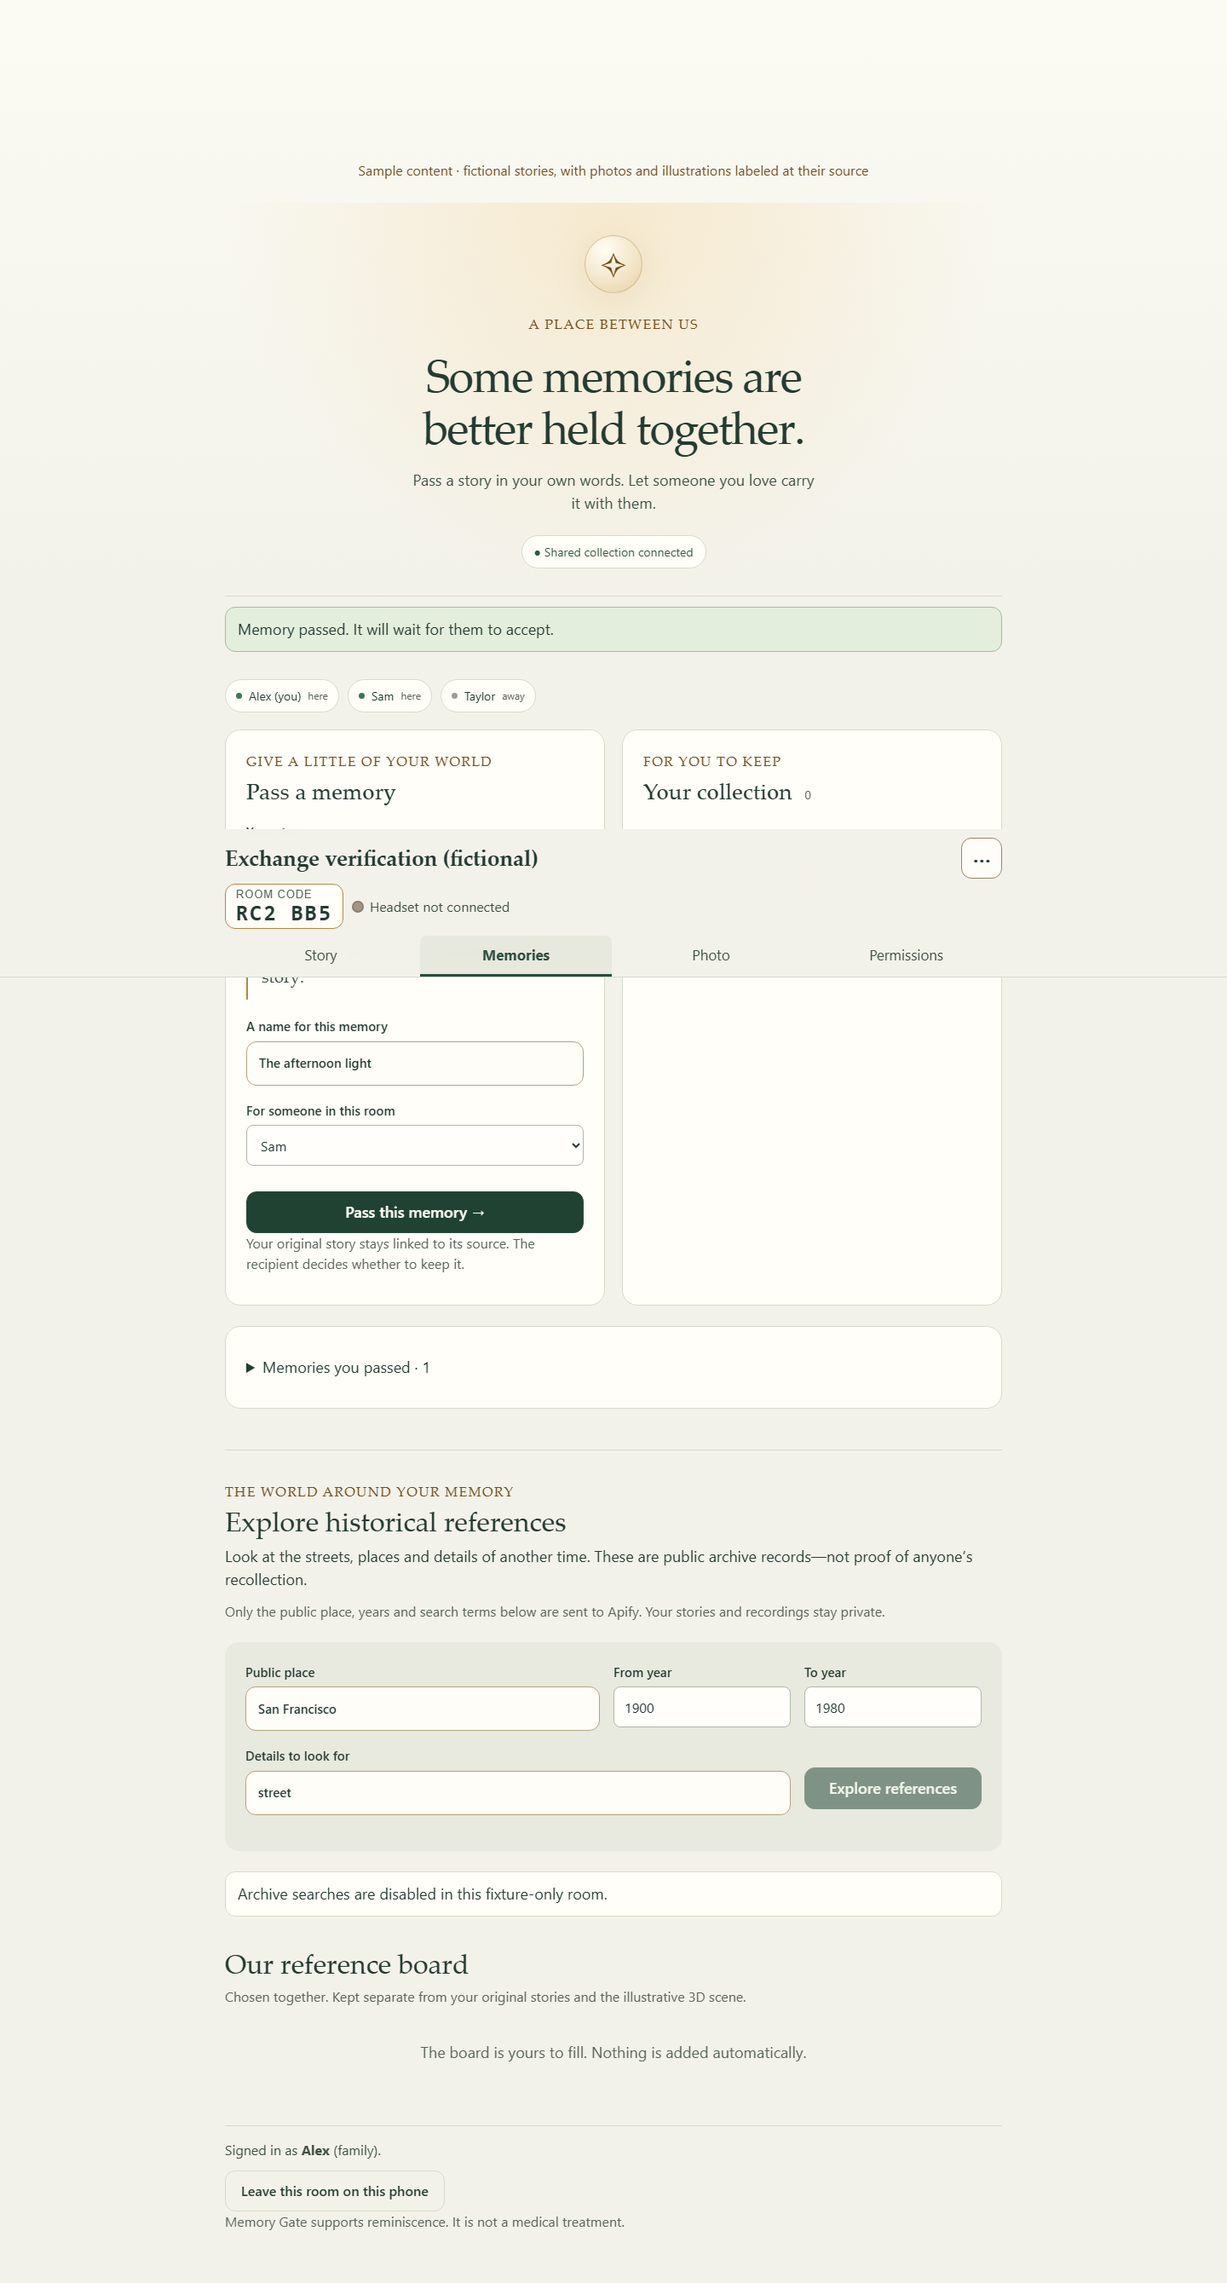
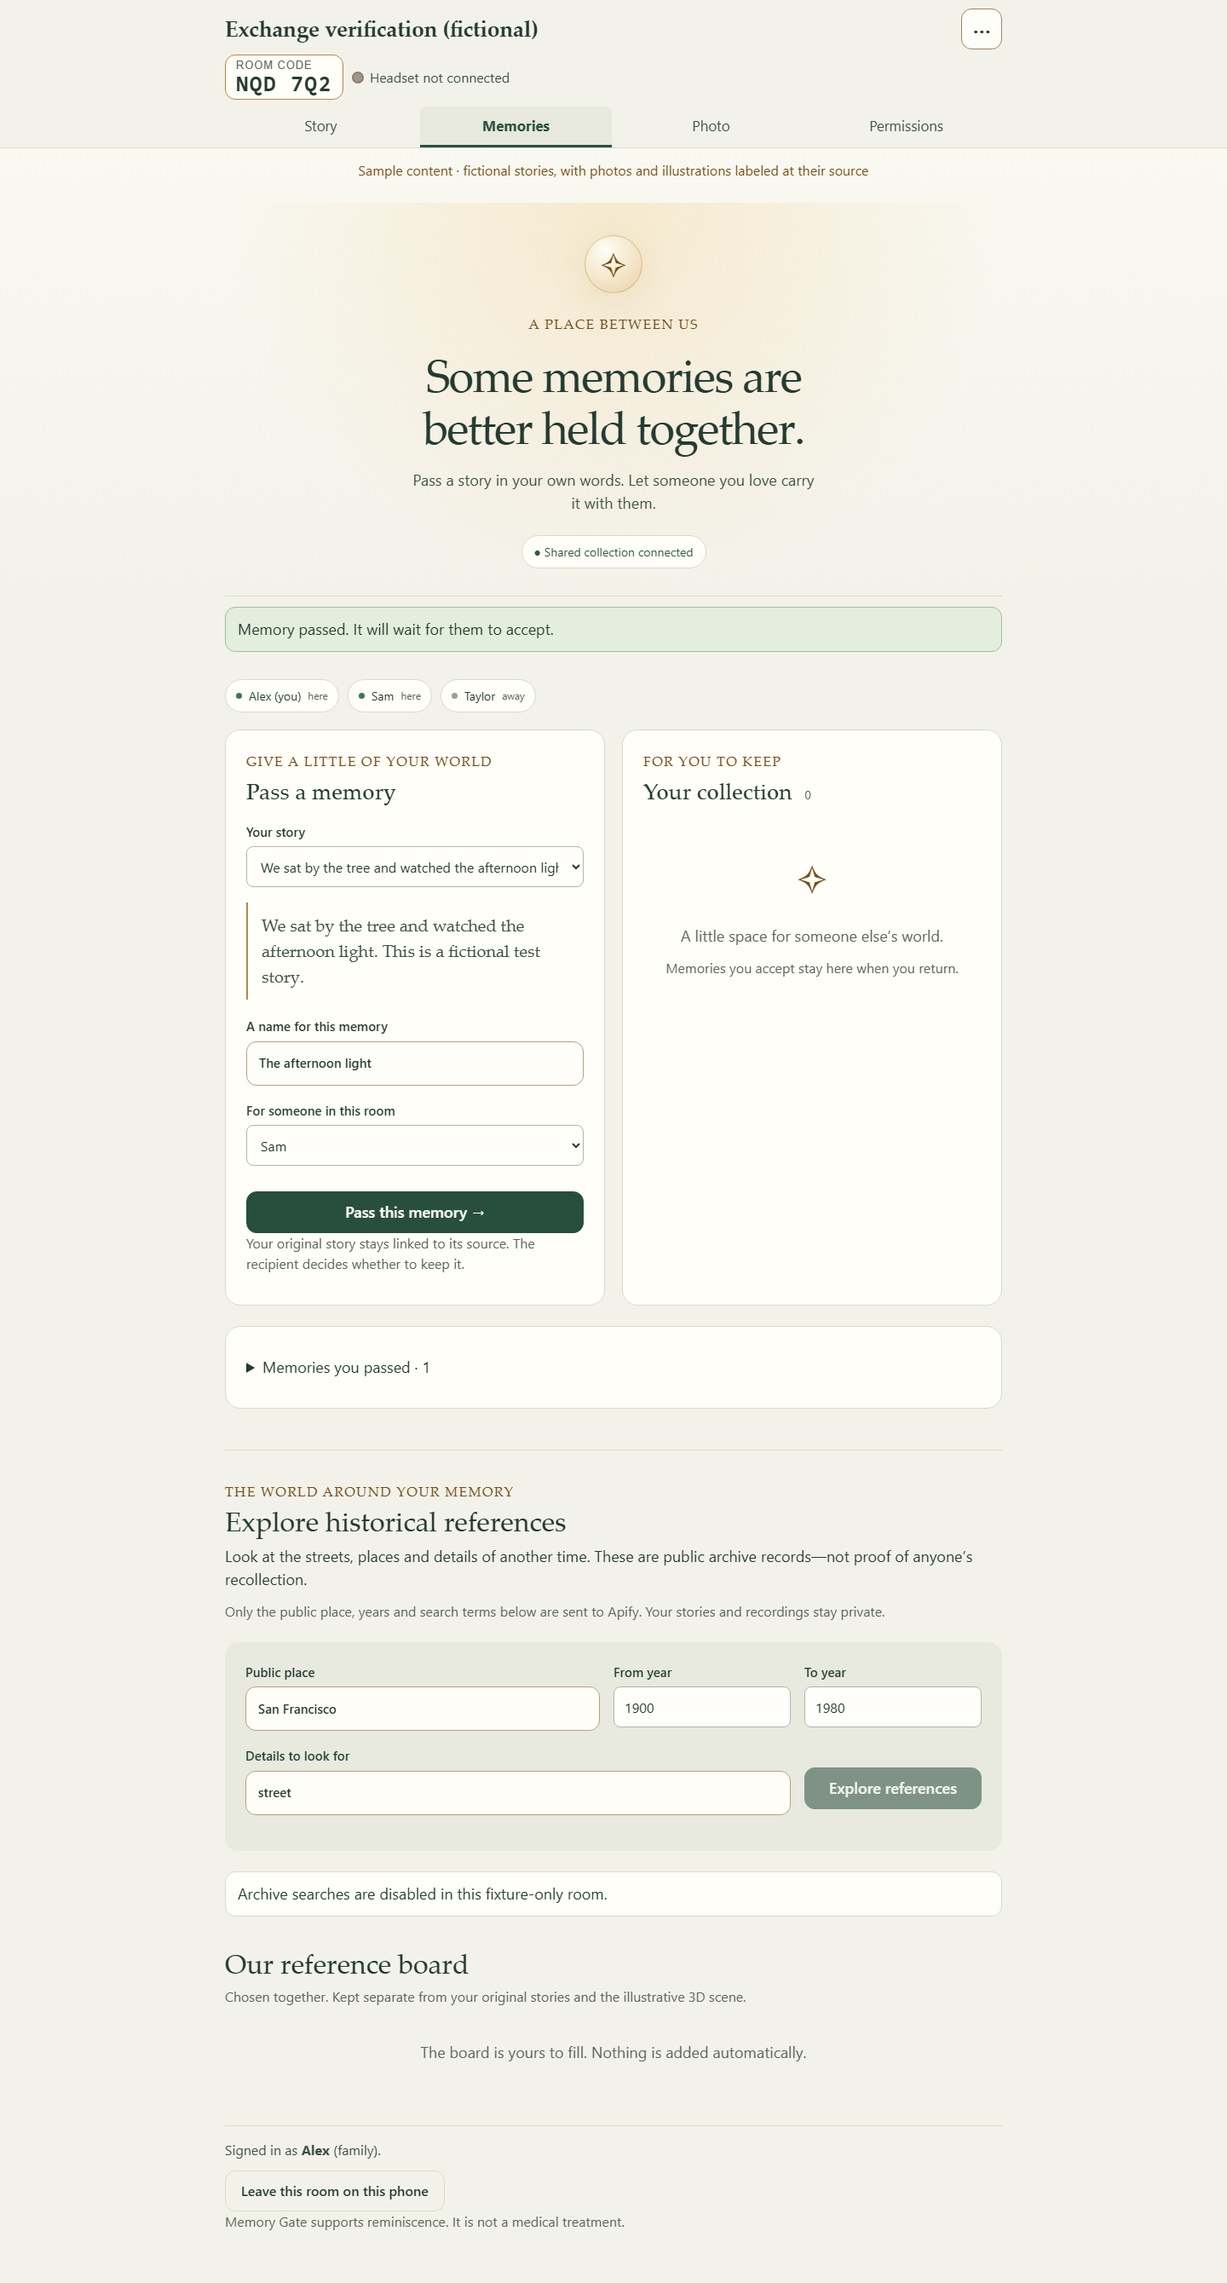
feat: persist shared references and reconcile room deletion

diff --git a/apps/phone/src/screens/Memories.tsx b/apps/phone/src/screens/Memories.tsx
@@ -24,7 +24,9 @@ export function Memories({ session, onStory }: { session: Session; onStory: () =
   const [sourceId, setSourceId] = useState(''); const [recipientId, setRecipientId] = useState(''); const [title, setTitle] = useState('');
   const [place, setPlace] = useState('San Francisco'); const [from, setFrom] = useState(1900); const [to, setTo] = useState(1980); const [terms, setTerms] = useState('street');
   const audio = useRef<HTMLAudioElement>(null);
+  const reveal = useRef<HTMLElement>(null);
   useEffect(() => { return () => { audio.current?.pause(); }; }, [opened?.capsuleId]);
+  useEffect(() => { if (opened) { reveal.current?.focus({ preventScroll: true }); reveal.current?.scrollIntoView({ block: 'center' }); } }, [opened?.capsuleId]);
   async function perform(key: string, payload: Record<string, unknown>, success: string) {
     setBusy(key); setError(''); setNotice('');
     try { await request(payload); setNotice(success); } catch (e) { setError(e instanceof Error ? e.message : 'Please try again.'); } finally { setBusy(''); }
@@ -36,7 +38,7 @@ export function Memories({ session, onStory }: { session: Session; onStory: () =
   const sent = snapshot?.capsules.filter(c => c.senderId === me) ?? [];
   const disabled = Boolean(busy) || status !== 'connected' || snapshot?.context.paused;
   const respond = (c: Capsule, next: string) => perform(c.id, { type: 'respond', capsuleId: c.id, revision: c.revision, status: next }, next === 'accepted' ? 'Saved to your collection. Open it whenever you are ready.' : next === 'revoked' ? 'This memory can no longer be opened through the exchange.' : 'Memory removed from your collection.');
-  return <section className="memory-exchange" data-testid="memory-exchange">
+  return <section className={`memory-exchange${incoming.length ? ' has-incoming' : ''}`} data-testid="memory-exchange">
     <header className="exchange-hero"><div className="memory-seal" aria-hidden="true">✧</div><p className="eyebrow">A place between us</p>
       <h2>Some memories are<br />better held together.</h2><p>Pass a story in your own words. Let someone you love carry it with them.</p>
       <span className={`exchange-status ${status}`} role="status">{status === 'connected' ? '● Shared collection connected' : status === 'connecting' ? 'Connecting to your shared collection…' : 'Shared collection reconnecting'}</span>
@@ -51,7 +53,7 @@ export function Memories({ session, onStory }: { session: Session; onStory: () =
         <span className="envelope-star" aria-hidden="true">✧</span><div><p className="small">From {c.senderName}, for you</p><h3>{c.title}</h3><p>You choose when to open it.</p></div>
         <div className="exchange-actions"><button className="btn btn-primary" disabled={disabled || !c.sourceAvailable} onClick={() => void respond(c, 'accepted')}>Accept memory</button><button className="btn btn-quiet" disabled={disabled} onClick={() => void respond(c, 'dismissed')}>No thanks</button></div>
       </article>)}</section>}
-      <div className="exchange-columns"><section className="exchange-panel"><p className="eyebrow">Give a little of your world</p><h3>Pass a memory</h3>
+      <div className={`exchange-columns${!snapshot.context.sources.length ? ' collection-first' : ''}`}><section className="exchange-panel"><p className="eyebrow">Give a little of your world</p><h3>Pass a memory</h3>
         {snapshot.context.sources.length ? <form onSubmit={e => { e.preventDefault(); void perform('pass', { type: 'pass', sourceId, recipientId, title, commandId: crypto.randomUUID() }, 'Memory passed. It will wait for them to accept.'); }}>
           <label className="exchange-field">Your story<select required value={sourceId} onChange={e => setSourceId(e.target.value)}><option value="">Choose your original words</option>{snapshot.context.sources.map(s => <option key={s.id} value={s.id}>{s.transcript.slice(0, 100)}</option>)}</select></label>
           {sourceId && <blockquote>{snapshot.context.sources.find(s => s.id === sourceId)?.transcript}</blockquote>}
@@ -61,11 +63,11 @@ export function Memories({ session, onStory }: { session: Session; onStory: () =
           <button className="btn btn-primary btn-wide" disabled={disabled || !sourceId || !recipientId || !title.trim()}>{busy === 'pass' ? 'Passing your memory…' : 'Pass this memory →'}</button>
           <p className="small muted">Your original story stays linked to its source. The recipient decides whether to keep it.</p>
         </form> : <div className="exchange-empty"><p>Start with a few words about a place you remember. Your completed stories will appear here.</p><button className="btn btn-primary" onClick={onStory}>Tell a story</button></div>}
-      </section><section className="exchange-panel"><p className="eyebrow">For you to keep</p><h3>Your collection <span className="memory-count">{collection.length}</span></h3>
+      </section><section className="exchange-panel collection-panel"><p className="eyebrow">For you to keep</p><h3>Your collection <span className="memory-count">{collection.length}</span></h3>
         {!collection.length && <div className="exchange-empty"><span aria-hidden="true">✧</span><p>A little space for someone else’s world.</p><p className="small muted">Memories you accept stay here when you return.</p></div>}
         {collection.map(c => <article className="collection-card" key={c.id} data-testid="saved-memory"><p className="small muted">{c.senderName} shared</p><h4>{c.title}</h4><div className="exchange-actions"><button className="btn btn-primary" disabled={disabled || !c.sourceAvailable} onClick={() => void perform(c.id, { type: 'open', capsuleId: c.id }, '')}>Open memory</button><button className="btn btn-quiet" disabled={disabled} onClick={() => void respond(c, 'dismissed')}>Remove</button></div>{!c.sourceAvailable && <p>Its contributor is no longer sharing this story.</p>}</article>)}
       </section></div>
-      {opened && <section className="opened-memory" data-testid="opened-memory" aria-label="Opened memory"><div className="exchange-actions"><p className="eyebrow">In {opened.source.speaker}’s own words</p><button className="btn btn-quiet" onClick={exchange.close}>Close memory</button></div><blockquote>{opened.source.transcript}</blockquote>
+      {opened && <section ref={reveal} tabIndex={-1} className="opened-memory" data-testid="opened-memory" aria-label="Opened memory"><div className="exchange-actions"><p className="eyebrow">In {opened.source.speaker}’s own words</p><button className="btn btn-quiet" onClick={exchange.close}>Close memory</button></div><blockquote>{opened.source.transcript}</blockquote>
         {opened.source.translation && <p><span className="small muted">Translation</span><br />{opened.source.translation}</p>}
         {opened.source.audioUrl ? <><p className="small">Original recording · {opened.source.speaker}</p><audio ref={audio} controls src={fileUrl(opened.source.audioUrl) ?? undefined} preload="none" /></> : <p className="small muted">{opened.source.source === 'typed' ? 'Original typed words. No recording was made.' : 'Original audio is not available with the current recording permission.'}</p>}
         {opened.source.objects.length > 0 && <p className="small">Connected to: {opened.source.objects.map(o => o.label).join(', ')}. <button className="btn btn-quiet" onClick={onStory}>Return to the shared place</button></p>}
@@ -87,7 +89,7 @@ export function Memories({ session, onStory }: { session: Session; onStory: () =
           <div className="atlas-grid">{results.references.map(r => <ReferenceCard key={r.id} reference={r}><button className="btn btn-primary btn-wide" disabled={disabled || snapshot.references.some(saved => saved.sourceUrl === r.sourceUrl)} onClick={() => void perform(r.id, { type: 'pin', referenceId: r.id }, 'Reference added to the shared board. The memory itself has not changed.')}>{snapshot.references.some(saved => saved.sourceUrl === r.sourceUrl) ? 'Added to your board' : 'Use as a shared reference'}</button></ReferenceCard>)}</div></>}
         <h3 className="shared-board-title">Our reference board</h3><p className="small muted">Chosen together. Kept separate from your original stories and the illustrative 3D scene.</p>
         {!snapshot.references.length && <p className="exchange-empty">The board is yours to fill. Nothing is added automatically.</p>}
-        <div className="atlas-grid">{snapshot.references.map(r => <ReferenceCard key={r.id} reference={r}><p className="small">Chosen by {r.contributor}</p>{r.addedBy === me && <button className="btn btn-quiet" disabled={disabled} onClick={() => void perform(r.id, { type: 'unpin', referenceId: r.id }, 'Reference removed from the board.')}>Remove reference</button>}</ReferenceCard>)}</div>
+        <div className="atlas-grid" data-testid="reference-board">{snapshot.references.map(r => <ReferenceCard key={r.id} reference={r}><p className="small">Chosen by {r.contributor}</p>{r.addedBy === me && <button className="btn btn-quiet" disabled={disabled} onClick={() => void perform(r.id, { type: 'unpin', referenceId: r.id }, 'Reference removed from the board.')}>Remove reference</button>}</ReferenceCard>)}</div>
       </section>
     </>}
   </section>;

diff --git a/tests/smoke/exchange.test.ts b/tests/smoke/exchange.test.ts
@@ -1,6 +1,6 @@
 import { expect, test } from 'vitest';
 import { api } from '../../convex/_generated/api';
-import { newT, setupRoom } from './helpers';
+import { newT, setupRoom, storeBlob } from './helpers';
 
 test('exchange excludes spectators and requires current sharing consent', async () => {
   const t = newT(); const r = await setupRoom(t);
@@ -17,13 +17,19 @@ test('exchange excludes spectators and requires current sharing consent', async 
 test('source lookup rejects cross-room IDs and never serves revoked recordings', async () => {
   const t = newT(); const r = await setupRoom(t);
   const member = await t.query(api.exchange.context, { code: r.code, token: r.owner });
+  const audioFileId = await storeBlob(t, 'synthetic audio', 'audio/wav');
   const sourceId = await t.run(ctx => ctx.db.insert('utterances', {
     roomId: member.roomId, memberId: member.memberId, speaker: 'Test contributor', transcript: 'A test memory.',
-    audioFileId: null, source: 'typed', language: 'en', translation: null, pointer: null, durationMs: 0, status: 'done', intent: null,
+    audioFileId, source: 'fixture', language: 'en', translation: null, pointer: null, durationMs: 0, status: 'done', intent: null,
     reply: null, sayBack: null, aiMode: null, aiMs: null, dropped: [], commandId: 'test-exchange-source', createdAt: Date.now(),
   }));
   const source = await t.query(api.exchange.source, { code: r.code, token: r.teller, sourceId });
   expect(source.audioUrl).toBeNull(); expect(source.transcript).toBe('A test memory.');
+  const recordingConsent = await t.mutation(api.consents.give, { code: r.code, token: r.owner, scopes: ['voice_recording'] });
+  expect((await t.query(api.exchange.source, { code: r.code, token: r.teller, sourceId })).audioUrl).toBeTruthy();
+  await t.mutation(api.consents.revoke, { code: r.code, token: r.owner, consentId: recordingConsent });
+  expect((await t.query(api.exchange.source, { code: r.code, token: r.teller, sourceId })).audioUrl).toBeNull();
+  expect((await t.query(api.exchange.context, { code: r.code, token: r.teller })).recordingAllowed).toBe(false);
   const other = await setupRoom(t, { sample: false, library: false });
   await expect(t.query(api.exchange.source, { code: other.code, token: other.owner, sourceId })).rejects.toThrow();
   await t.run(ctx => ctx.db.patch(member.memberId, { revokedAt: Date.now() }));

diff --git a/apps/phone/src/exchange.css b/apps/phone/src/exchange.css
@@ -1,4 +1,7 @@
 .memory-exchange { padding-top: 12px; }
+.has-incoming .exchange-hero { padding: 20px 8px; }
+.has-incoming .memory-seal, .has-incoming .exchange-hero > p:not(.eyebrow) { display: none; }
+.has-incoming .exchange-hero h2 { font-size: 1.8rem; margin: 12px 0; }
 .exchange-hero { text-align: center; padding: 38px 20px 32px; background: radial-gradient(ellipse at 50% 0, #f4d9a774, transparent 70%); border-bottom: 1px solid var(--line); }
 .exchange-hero h2 { font-size: clamp(2rem, 5vw, 3.4rem); line-height: 1.12; font-weight: 400; letter-spacing: -.035em; margin: 18px 0; }
 .exchange-hero > p:not(.eyebrow) { max-width: 480px; margin: 0 auto 24px; color: var(--ink-2); }
@@ -56,3 +59,4 @@
 @keyframes memory-arrive { from { opacity: 0; transform: translateY(10px); } to { opacity: 1; transform: none; } }
 @media (max-width: 650px) { .exchange-columns, .atlas-grid { grid-template-columns: 1fr; } .exchange-panel, .opened-memory { padding: 20px; } .atlas-search { grid-template-columns: 1fr 1fr; padding: 18px; } .atlas-search > label:first-child, .atlas-search > label:nth-child(4), .atlas-search > button { grid-column: 1 / -1; } .memory-envelope { gap: 12px; padding: 20px; } .envelope-star { font-size: 36px; } .exchange-hero { padding: 24px 8px; } .tabs { flex-wrap: wrap; } }
 @media (prefers-reduced-motion: reduce) { .memory-envelope, .opened-memory { animation: none; } }
+@media (max-width: 650px) { .collection-first .collection-panel { order: -1; } }

diff --git a/convex/exchange.ts b/convex/exchange.ts
@@ -2,6 +2,22 @@ import { ConvexError, v } from 'convex/values';
 import { query } from './_generated/server';
 import { activeScopes, requireMember, requireScope } from './lib/auth';
 
+// A bounded reconciliation query lets the gateway erase deleted rooms after an
+// outage too. It reveals only absence, and requires the existing server secret.
+export const deletedRooms = query({
+  args: { secret: v.string(), roomIds: v.array(v.string()) },
+  handler: async (ctx, { secret, roomIds }) => {
+    if (!process.env.WORKER_SECRET || secret !== process.env.WORKER_SECRET) throw new ConvexError({ code: 'FORBIDDEN', message: 'Server authorization required.' });
+    if (roomIds.length > 100) throw new ConvexError({ code: 'LIMIT', message: 'At most 100 rooms per reconciliation.' });
+    const deleted: string[] = [];
+    for (const roomId of roomIds) {
+      const id = ctx.db.normalizeId('rooms', roomId);
+      if (!id || !await ctx.db.get(id)) deleted.push(roomId);
+    }
+    return deleted;
+  },
+});
+
 // Gateway authorization is checked again for every action and every pushed snapshot.
 export const context = query({
   args: { code: v.string(), token: v.string() },

diff --git a/services/exchange/bindings/types/reducers.ts b/services/exchange/bindings/types/reducers.ts
@@ -8,11 +8,13 @@ import { type Infer as __Infer } from "spacetimedb";
 // Import all reducer arg schemas
 import PassMemoryReducer from "../pass_memory_reducer";
 import PinReferenceReducer from "../pin_reference_reducer";
+import PurgeRoomReducer from "../purge_room_reducer";
 import RespondMemoryReducer from "../respond_memory_reducer";
 import UnpinReferenceReducer from "../unpin_reference_reducer";
 
 export type PassMemoryParams = __Infer<typeof PassMemoryReducer>;
 export type PinReferenceParams = __Infer<typeof PinReferenceReducer>;
+export type PurgeRoomParams = __Infer<typeof PurgeRoomReducer>;
 export type RespondMemoryParams = __Infer<typeof RespondMemoryReducer>;
 export type UnpinReferenceParams = __Infer<typeof UnpinReferenceReducer>;
 

diff --git a/services/exchange/bindings/index.ts b/services/exchange/bindings/index.ts
@@ -36,6 +36,7 @@ import {
 // Import all reducer arg schemas
 import PassMemoryReducer from "./pass_memory_reducer";
 import PinReferenceReducer from "./pin_reference_reducer";
+import PurgeRoomReducer from "./purge_room_reducer";
 import RespondMemoryReducer from "./respond_memory_reducer";
 import UnpinReferenceReducer from "./unpin_reference_reducer";
 
@@ -95,6 +96,7 @@ const tablesSchema = __schema({
 const reducersSchema = __reducers(
   __reducerSchema("pass_memory", PassMemoryReducer),
   __reducerSchema("pin_reference", PinReferenceReducer),
+  __reducerSchema("purge_room", PurgeRoomReducer),
   __reducerSchema("respond_memory", RespondMemoryReducer),
   __reducerSchema("unpin_reference", UnpinReferenceReducer),
 );

diff --git a/spacetimedb/src/index.ts b/spacetimedb/src/index.ts
@@ -63,3 +63,8 @@ export const unpinReference = db.reducer({ id: t.string(), roomId: t.string(), m
   if (r.roomId !== a.roomId || r.addedBy !== a.memberId) throw new SenderError('Only the contributor can remove this reference.');
   ctx.db.reference.id.delete(a.id);
 });
+export const purgeRoom = db.reducer({ roomId: t.string() }, (ctx, { roomId }) => {
+  requireOperator(ctx);
+  for (const row of [...ctx.db.capsule.byRoom.filter(roomId)]) ctx.db.capsule.id.delete(row.id);
+  for (const row of [...ctx.db.reference.byRoom.filter(roomId)]) ctx.db.reference.id.delete(row.id);
+});

diff --git a/services/exchange/bindings/purge_room_reducer.ts b/services/exchange/bindings/purge_room_reducer.ts
@@ -1,0 +1,15 @@
+// THIS FILE IS AUTOMATICALLY GENERATED BY SPACETIMEDB. EDITS TO THIS FILE
+// WILL NOT BE SAVED. MODIFY TABLES IN YOUR MODULE SOURCE CODE INSTEAD.
+
+/* eslint-disable */
+/* tslint:disable */
+import {
+  TypeBuilder as __TypeBuilder,
+  t as __t,
+  type AlgebraicTypeType as __AlgebraicTypeType,
+  type Infer as __Infer,
+} from "spacetimedb";
+
+export default {
+  roomId: __t.string(),
+};
